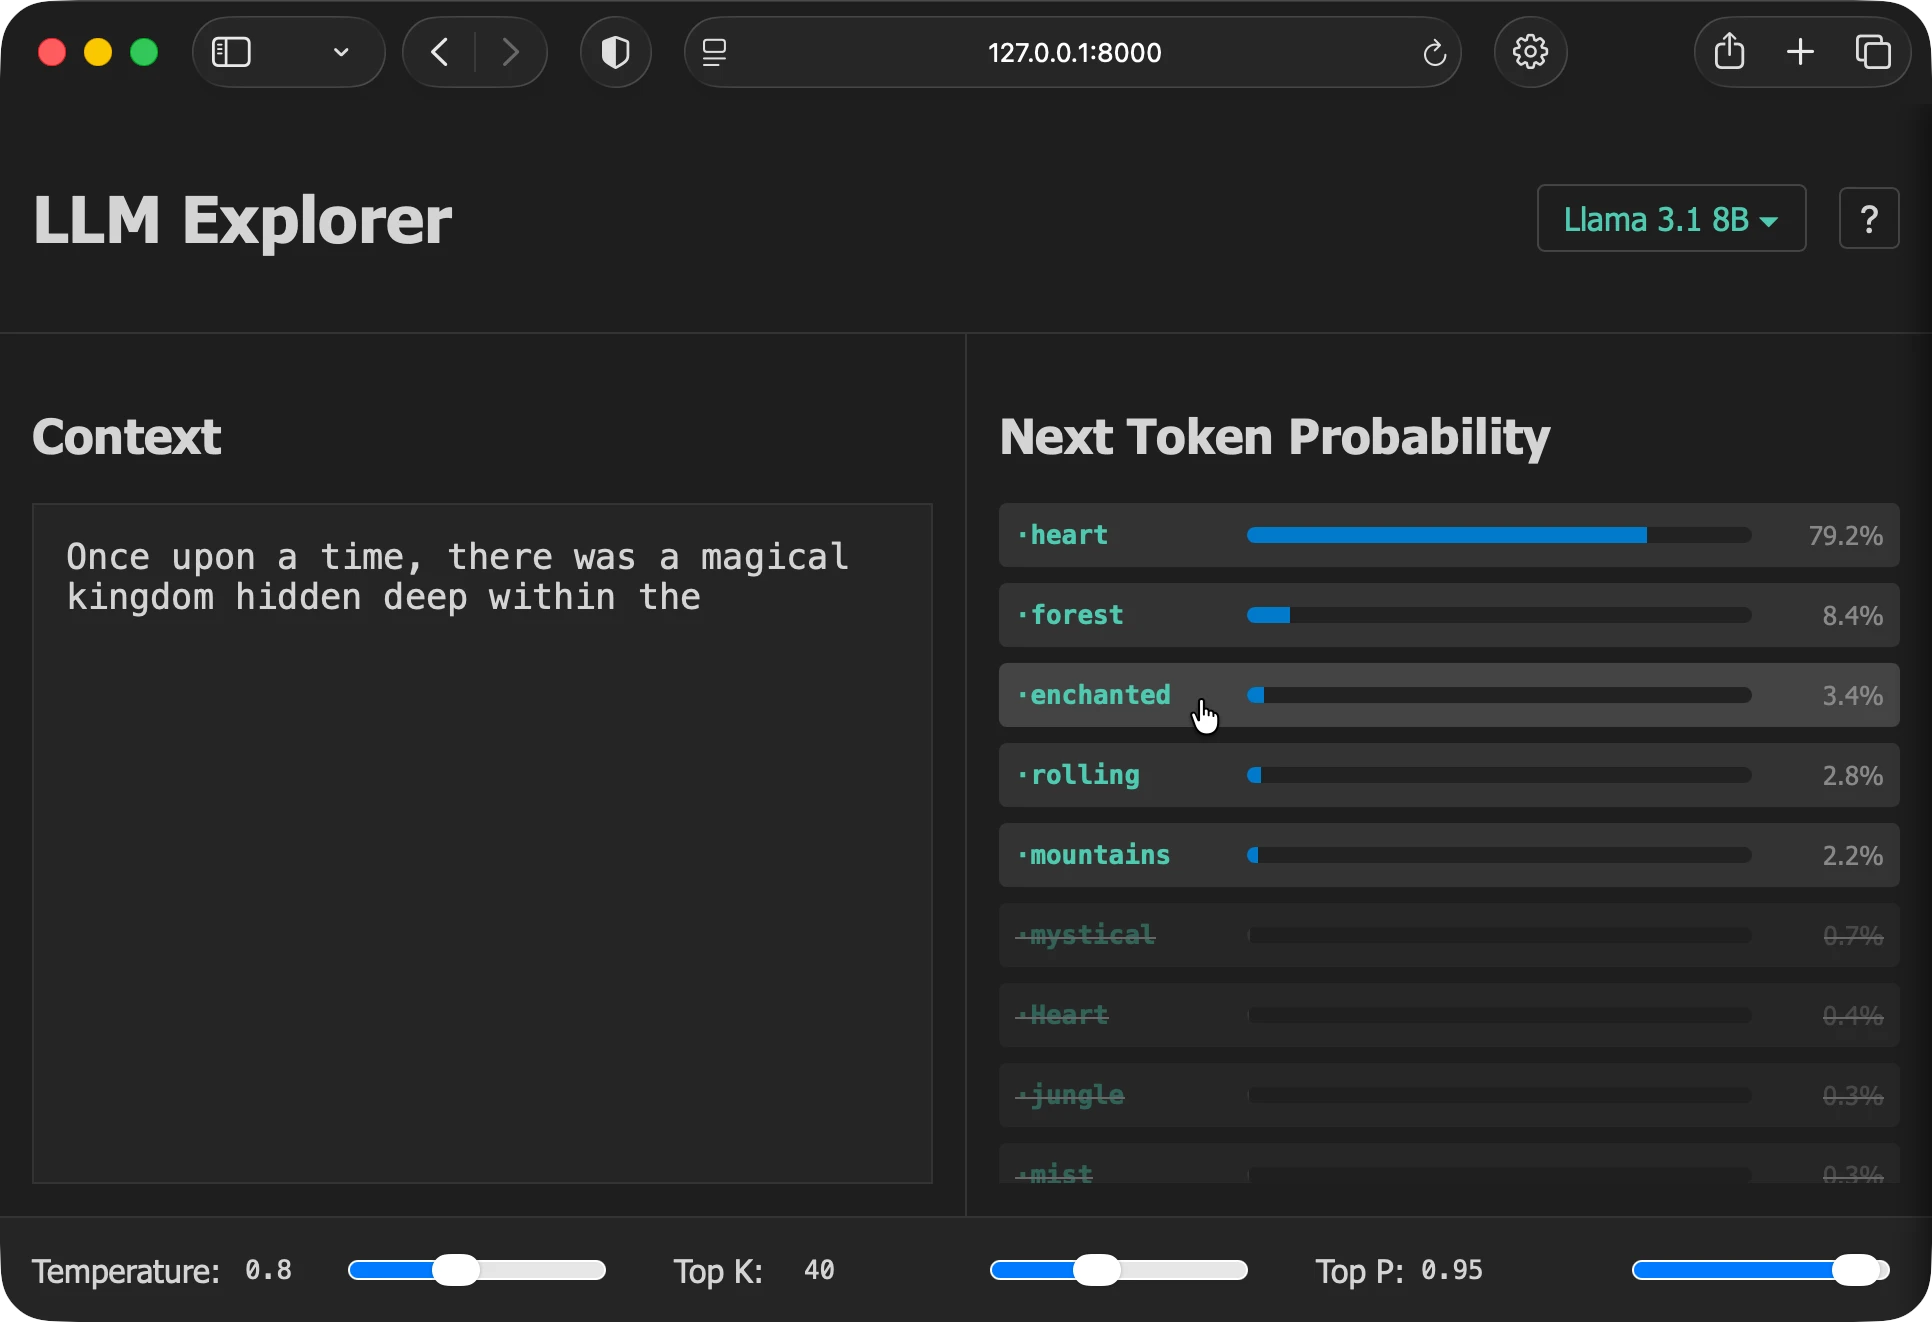
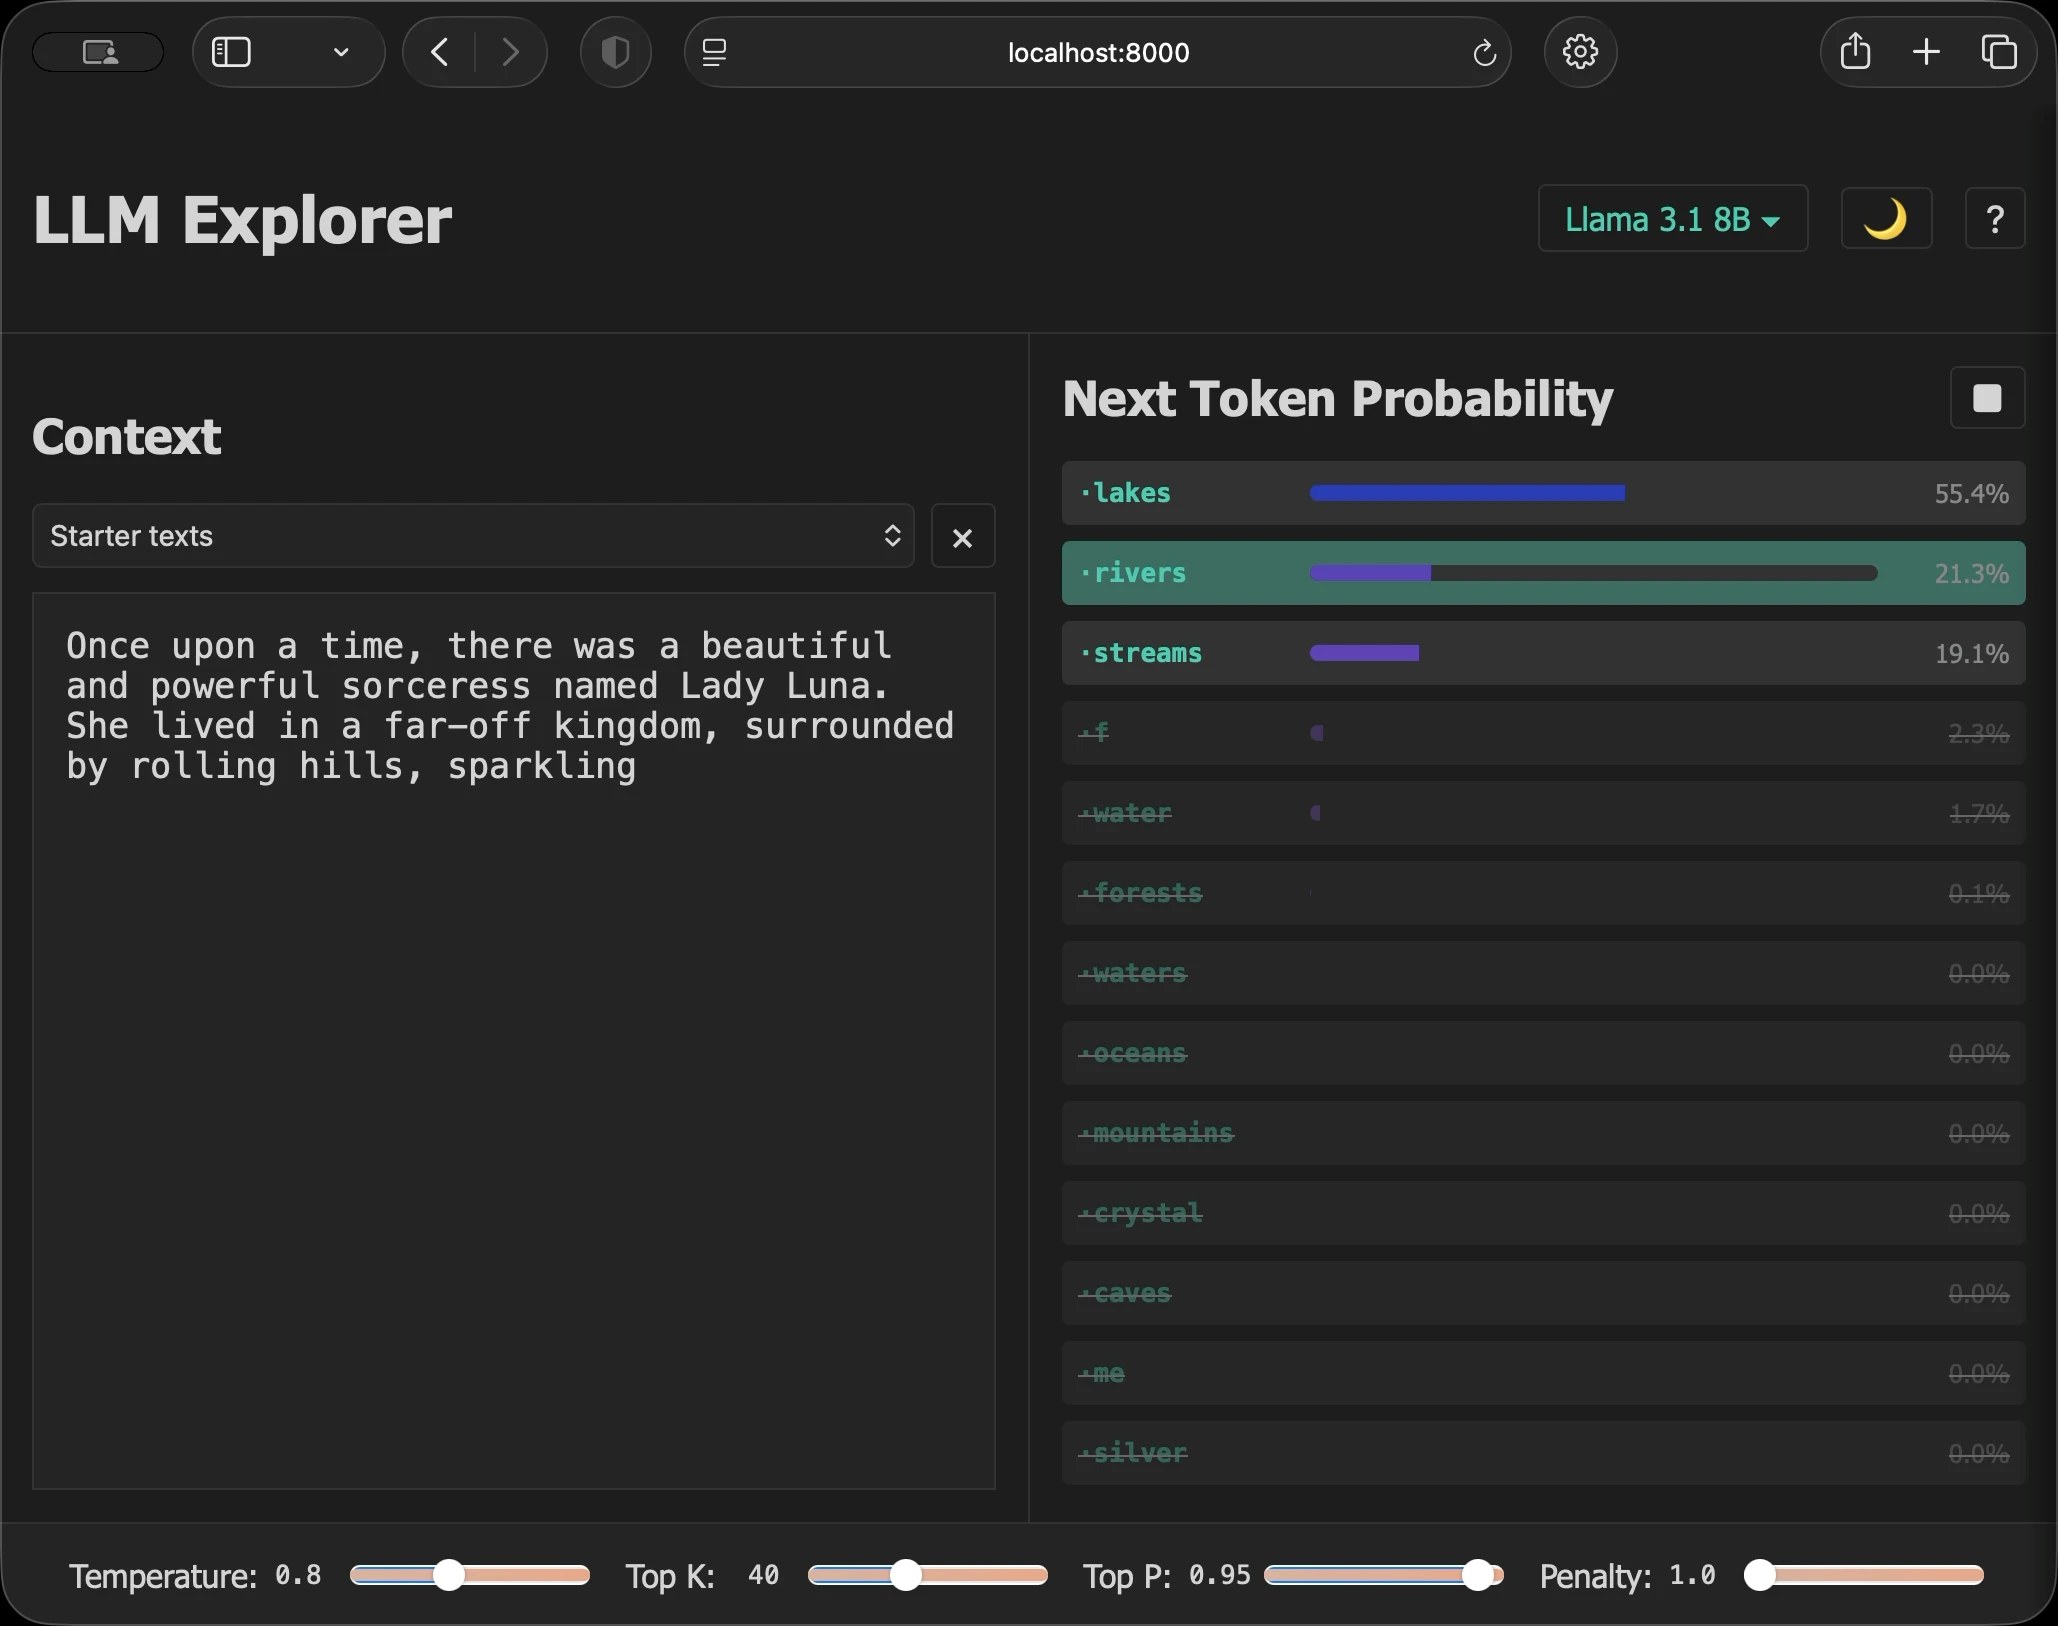
docs: simplify README and update usage instructions

diff --git a/README.md b/README.md
@@ -1,209 +1,57 @@
 # LLM Explorer
 
-An interactive UI for exploring next-token probabilities from local GGUF models via `llama-cpp-python`. This project includes a FastAPI backend and a static frontend that visualizes candidate tokens, their probabilities, and sampling controls.
+Interactive UI for exploring next-token probabilities from local GGUF models via `llama-cpp-python`. Visualize candidate tokens, their probabilities, and sampling controls.
 
 **Inspiration:** https://www.youtube.com/watch?v=vrO8tZ0hHGk  
-Vibe-coded using OpenCode and Gemini 3 Pro.
-
-## Screenshot
-
-![LLM Explorer UI](docs/screenshots/app.webp)
+Vibe-coded using OpenCode, Gemini 3 Pro, and MiniMax M2.1.
 
 ## Features
 
-- Interactive next-token probability explorer
-- Adjustable sampling controls (temperature, top-k, top-p, repetition penalty)
+- Next-token probability explorer with color-coded confidence
+- Starter texts dropdown + clear button
+- Auto-inference mode (weighted random selection with visual feedback)
+- Sampling controls: temperature, top-k, top-p, repetition penalty
 - Model manager for local GGUF files
 - Remote model browser and downloader (Hugging Face Hub)
-- Local model switching without restarting the UI
 
 ## Requirements
 
-- Python 3.10+ recommended
-- macOS with Metal is supported (full GPU offload via `n_gpu_layers=-1`)
+- Python 3.10+
+- macOS with Metal GPU offload supported
 - Disk space for GGUF models
 
 ## Setup
 
-1. Create and activate a virtual environment:
-   - macOS/Linux:
-     ```/dev/null/venv.sh#L1-3
-     python -m venv .venv
-     source .venv/bin/activate
-     ```
-   - Windows (PowerShell):
-     ```/dev/null/venv.ps1#L1-2
-     python -m venv .venv
-     .\.venv\Scripts\Activate.ps1
-     ```
+```bash
+python -m venv .venv
+source .venv/bin/activate
+pip install -r requirements.txt
+```
 
-2. Install dependencies:
-   ```/dev/null/install.sh#L1-1
-   pip install -r requirements.txt
-   ```
+## Run
 
-## Run the App
-
-Start the FastAPI server:
-
-```/dev/null/run.sh#L1-1
+```bash
 uvicorn app.main:app --reload
 ```
 
-Open your browser at: `http://127.0.0.1:8000`
+Open: http://127.0.0.1:8000
 
+Default model downloads automatically on first run.
 
-On first run, the default model will download automatically (see `app/utils.py`).
+## API
 
-## Default Model
+- `GET /health` — Health check
+- `POST /next-tokens` — Get next token candidates
+- `GET /models` — List local models
+- `GET /models/lookup?repo_id=...` — Search Hugging Face
+- `POST /models/download` — Download model
+- `POST /models/switch` — Switch model
 
-The app downloads a default GGUF model if not present:
+## Structure
 
-- Repo: `bartowski/Meta-Llama-3.1-8B-Instruct-GGUF`
-- File: `Meta-Llama-3.1-8B-Instruct-Q8_0.gguf`
+- `app/main.py` — FastAPI app
+- `app/llm.py` — LLM engine
+- `app/models_manager.py` — Model handling
+- `app/static/` — UI (HTML/CSS/JS)
 
-You can change this behavior by editing:
-
-- `app/utils.py` (`MODEL_REPO`, `MODEL_FILE`)
-
-## API Overview
-
-Base URL: `http://127.0.0.1:8000`
-
-### Health Check
-
-`GET /health`
-
-Returns:
-
-```/dev/null/health.json#L1-3
-{
-  "status": "ok"
-}
-```
-
-### Next Tokens
-
-`POST /next-tokens`
-
-Request body:
-
-```/dev/null/next_tokens_request.json#L1-6
-{
-  "text": "Once upon a time, there was a",
-  "temp": 0.8,
-  "top_k": 40,
-  "top_p": 0.95,
-  "repeat_penalty": 1.0
-}
-```
-
-Response:
-
-```/dev/null/next_tokens_response.json#L1-8
-{
-  "candidates": [
-    {
-      "token": " ...",
-      "prob": 12.3,
-      "logprob": -2.1,
-      "cumulative_prob": 12.3,
-      "excluded": false
-    }
-  ]
-}
-```
-
-### List Local Models
-
-`GET /models`
-
-Returns a list of local `.gguf` files:
-
-```/dev/null/models.json#L1-8
-[
-  {
-    "filename": "model.gguf",
-    "size_mb": 1234.56,
-    "path": "app/models/model.gguf"
-  }
-]
-```
-
-### Lookup Remote Models
-
-`GET /models/lookup?repo_id=...`
-
-Returns GGUF files from a Hugging Face repo:
-
-```/dev/null/lookup.json#L1-6
-[
-  {
-    "filename": "model.gguf",
-    "size_mb": 1234.56
-  }
-]
-```
-
-### Download Model
-
-`POST /models/download`
-
-Request:
-
-```/dev/null/download_request.json#L1-4
-{
-  "repo_id": "bartowski/Llama-3.2-1B-Instruct-GGUF",
-  "filename": "some-model.gguf"
-}
-```
-
-Response:
-
-```/dev/null/download_response.json#L1-4
-{
-  "status": "success",
-  "path": "app/models/some-model.gguf"
-}
-```
-
-### Switch Model
-
-`POST /models/switch`
-
-Request:
-
-```/dev/null/switch_request.json#L1-3
-{
-  "filename": "some-model.gguf"
-}
-```
-
-Response:
-
-```/dev/null/switch_response.json#L1-4
-{
-  "status": "success",
-  "model": "some-model.gguf"
-}
-```
-
-## Notes
-
-- The repetition penalty implementation is a simple string-based approximation.
-- Token probabilities are derived from model logprobs and normalized for display.
-- Some Hugging Face repos are gated and require authentication.
-- For gated repos, set `HUGGINGFACE_HUB_TOKEN` or `HF_TOKEN` in your environment before downloading.
-- If you use remote downloads, ensure you have access to the model’s license and terms.
-
-## Project Structure
-
-- `app/main.py` — FastAPI app and API routes
-- `app/llm.py` — LLM engine wrapper
-- `app/models_manager.py` — Model listing/downloading
-- `app/utils.py` — Default model selection/download
-- `app/static/` — UI assets (HTML/CSS/JS)
-
-## License
-
-MIT License. See `LICENSE`.
+MIT License.
